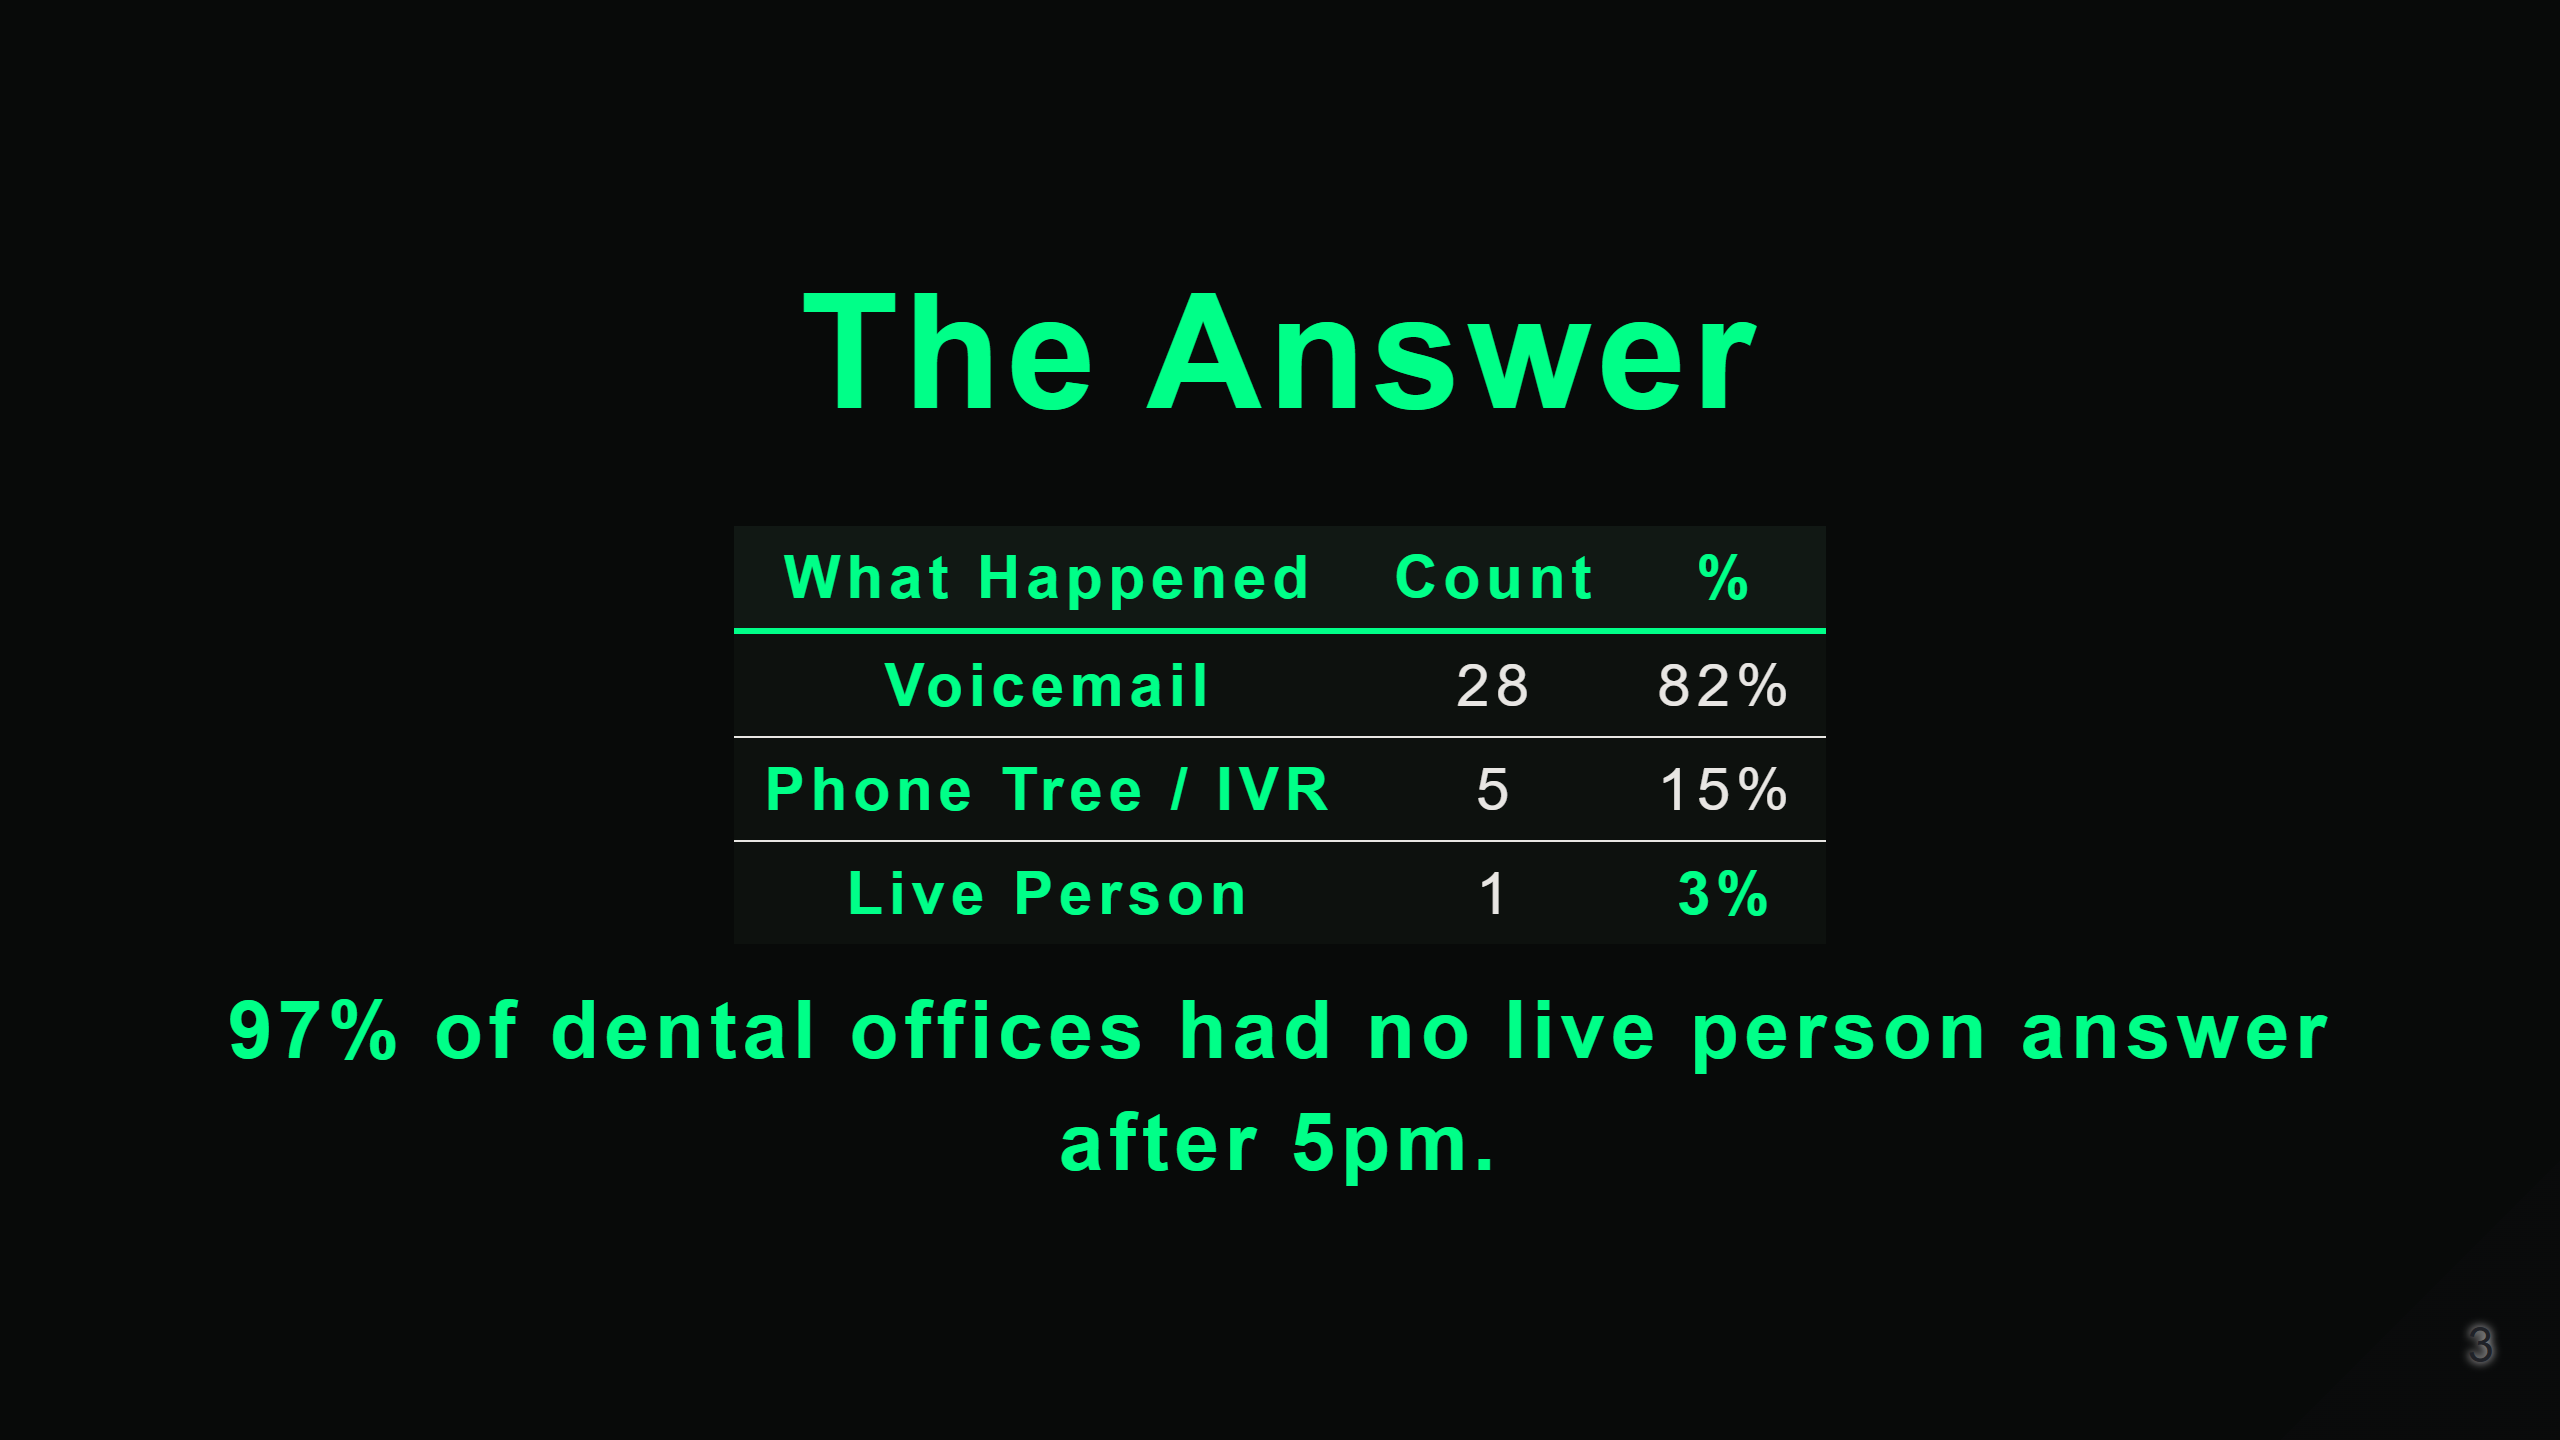
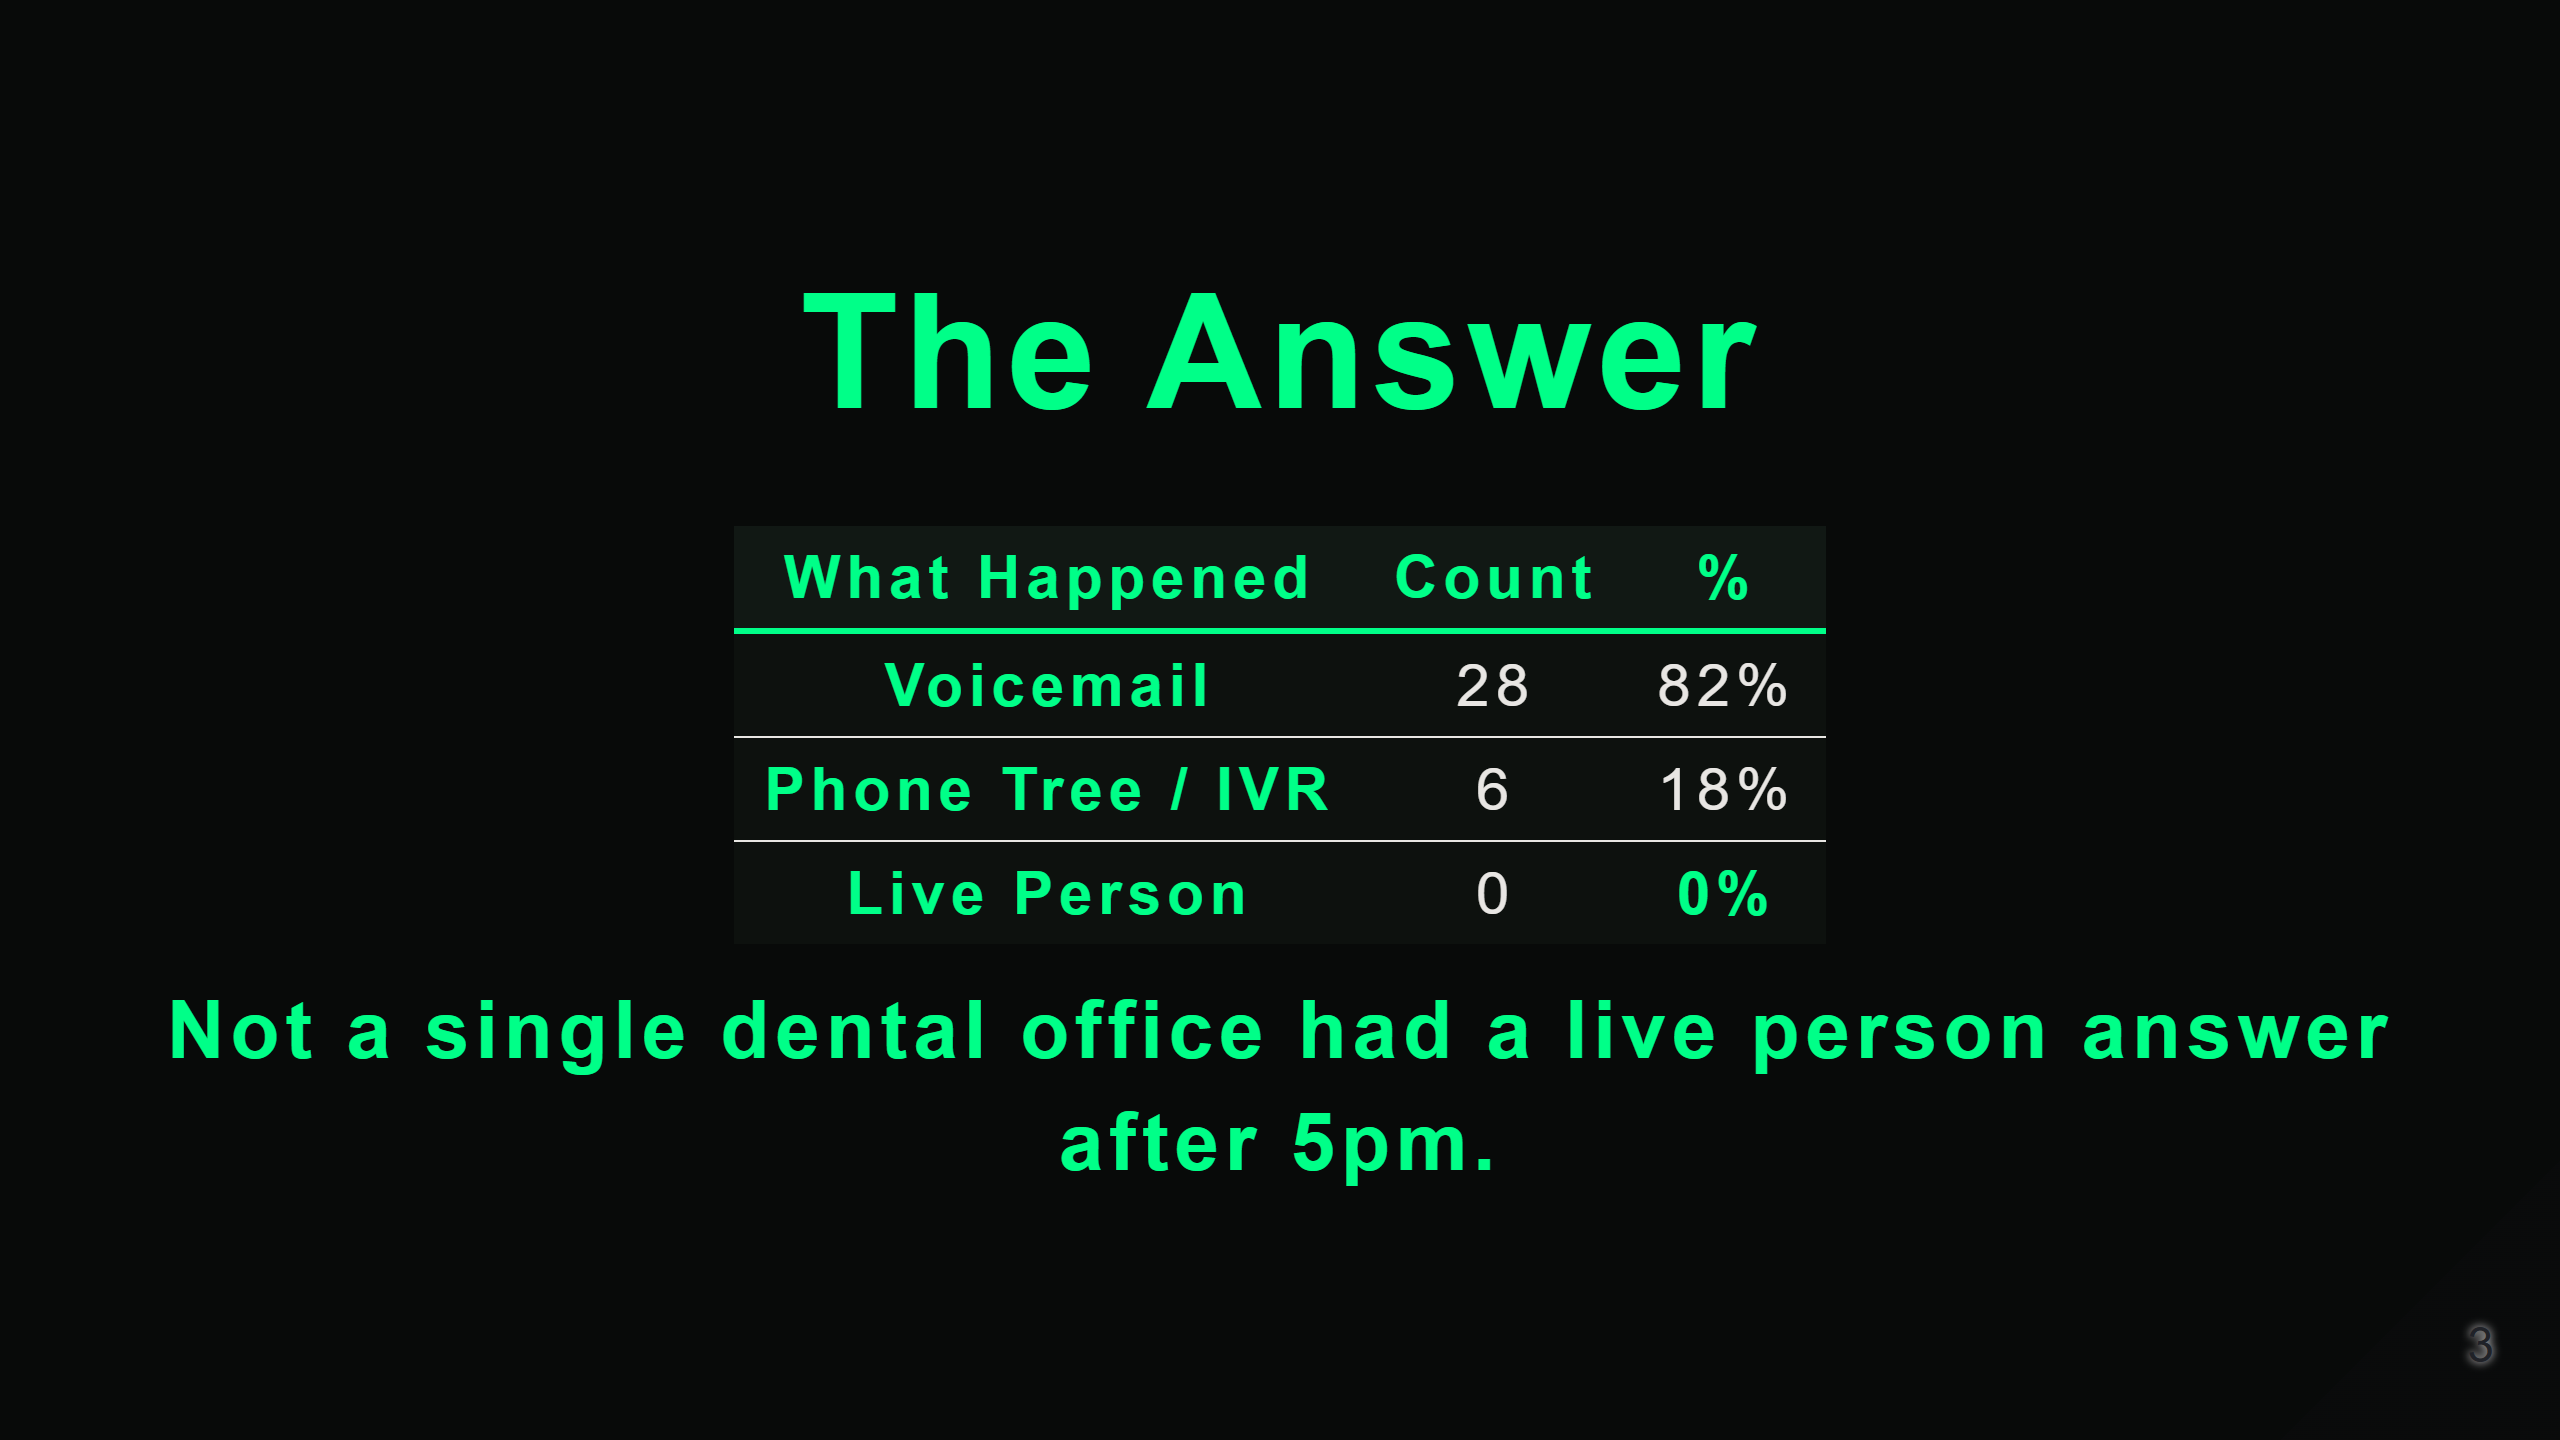
fix report data: zero live answers, not one — truth from actual call results

diff --git a/public/report.html b/public/report.html
@@ -3,22 +3,22 @@
 <head>
 <meta charset="UTF-8">
 <meta name="viewport" content="width=device-width, initial-scale=1.0">
-<title>We called 34 dental offices after 5pm. One person answered. | NightLeak</title>
-<meta name="description" content="97% of dental offices had no live person answer after hours. We called 34 practices across California and New York. Here's the data.">
+<title>We called 34 dental offices after 5pm. Nobody answered. | NightLeak</title>
+<meta name="description" content="Not a single dental office had a live person answer after hours. We called 34 practices across California and New York. Here's the data.">
 <link rel="canonical" href="https://nightleakaudit.com/report">
 
 <!-- Open Graph -->
 <meta property="og:type" content="article">
 <meta property="og:url" content="https://nightleakaudit.com/report">
-<meta property="og:title" content="We called 34 dental offices after 5pm. One person answered.">
-<meta property="og:description" content="97% of dental offices had no live person answer after hours. NightLeak After-Hours Audit Report — April 2026.">
+<meta property="og:title" content="We called 34 dental offices after 5pm. Nobody answered.">
+<meta property="og:description" content="Not a single dental office had a live person answer after hours. NightLeak After-Hours Audit Report — April 2026.">
 <meta property="og:image" content="https://nightleakaudit.com/og-image.png">
 <meta property="og:site_name" content="NightLeak">
 
 <!-- Twitter Card -->
 <meta name="twitter:card" content="summary_large_image">
-<meta name="twitter:title" content="We called 34 dental offices after 5pm. One person answered.">
-<meta name="twitter:description" content="97% had no live person. 0% offered online booking. $6.5M-$17.6M annual leak across 34 practices.">
+<meta name="twitter:title" content="We called 34 dental offices after 5pm. Nobody answered.">
+<meta name="twitter:description" content="Zero live answers. 0% offered online booking. $6.5M-$17.6M annual leak across 34 practices.">
 <meta name="twitter:image" content="https://nightleakaudit.com/og-image.png">
 
 <!-- JSON-LD -->
@@ -26,8 +26,8 @@
 {
   "@context": "https://schema.org",
   "@type": "Article",
-  "headline": "We called 34 dental offices after 5pm. One person answered.",
-  "description": "NightLeak After-Hours Audit Report — California & New York, April 2026. 97% of dental offices had no live person answer after hours.",
+  "headline": "We called 34 dental offices after 5pm. Nobody answered.",
+  "description": "NightLeak After-Hours Audit Report — California & New York, April 2026. Not a single dental office had a live person answer after hours.",
   "datePublished": "2026-04-17",
   "publisher": {
     "@type": "Organization",
@@ -608,17 +608,17 @@ body::after {
     <div class="report-eyebrow">Field Research · April 2026</div>
     <h1 class="report-headline">
       We called 34 dental offices after 5pm.<br>
-      <span>One person answered.</span>
+      <span>Nobody answered.</span>
     </h1>
     <p class="report-sub">
-      Between April 15-17, 2026, NightLeak called 34 dental practices across California and New York after business hours. We weren't selling anything. We called as a patient would.
+      Between April 15-17, 2026, NightLeak called 34 dental practices across California and New York after business hours. We weren't selling anything. We called as a patient would. Not a single practice had a live person pick up the phone.
     </p>
     <div class="report-meta">California & New York · 34 practices · April 15-17, 2026</div>
   </div>
 
   <!-- BIG NUMBER -->
   <div class="big-number-section">
-    <div class="big-number" id="big-pct">97%</div>
+    <div class="big-number" id="big-pct">100%</div>
     <div class="big-number-label">of dental offices had no live person answer after 5pm</div>
   </div>
 
@@ -629,11 +629,11 @@ body::after {
       <div class="stat-label">went to voicemail</div>
     </div>
     <div class="stat-item">
-      <div class="stat-num red">15%</div>
+      <div class="stat-num red">18%</div>
       <div class="stat-label">hit phone tree / IVR</div>
     </div>
     <div class="stat-item">
-      <div class="stat-num">3%</div>
+      <div class="stat-num red">0%</div>
       <div class="stat-label">answered by a live person</div>
     </div>
   </div>
@@ -651,8 +651,8 @@ body::after {
       <tbody>
         <tr><td>Practices called</td><td class="num">34</td></tr>
         <tr><td>Went to voicemail</td><td class="num">28 (82%)</td></tr>
-        <tr><td>Hit a phone tree / IVR</td><td class="num">5 (15%)</td></tr>
-        <tr><td>Answered by a live person</td><td class="num">1 (3%)</td></tr>
+        <tr><td>Hit a phone tree / IVR</td><td class="num">6 (18%)</td></tr>
+        <tr><td>Answered by a live person</td><td class="num" style="color:var(--red);">0 (0%)</td></tr>
         <tr><td>Offered online booking</td><td class="num" style="color:var(--red);">0 (0%)</td></tr>
         <tr><td>Offered a callback option</td><td class="num">6 (18%)</td></tr>
       </tbody>
@@ -669,13 +669,13 @@ body::after {
     </div>
     <div class="bar-row">
       <div class="bar-label">Phone Tree / IVR</div>
-      <div class="bar-track"><div class="bar-fill amber" style="width:15%"></div></div>
-      <div class="bar-pct">15%</div>
+      <div class="bar-track"><div class="bar-fill amber" style="width:18%"></div></div>
+      <div class="bar-pct">18%</div>
     </div>
     <div class="bar-row">
       <div class="bar-label">Live Person</div>
-      <div class="bar-track"><div class="bar-fill green" style="width:3%"></div></div>
-      <div class="bar-pct">3%</div>
+      <div class="bar-track"><div class="bar-fill red" style="width:0%"></div></div>
+      <div class="bar-pct">0%</div>
     </div>
     <div class="bar-row">
       <div class="bar-label">Online Booking</div>
@@ -770,7 +770,7 @@ body::after {
       <tbody>
         <tr><td>New York, NY</td><td>5</td><td><span class="dot red"></span>4 (80%)</td><td>0</td><td>1</td></tr>
         <tr><td>San Jose, CA</td><td>4</td><td><span class="dot red"></span>3 (75%)</td><td>0</td><td>1</td></tr>
-        <tr><td>Los Angeles, CA</td><td>1</td><td>0</td><td><span class="dot green"></span>1</td><td>0</td></tr>
+        <tr><td>Los Angeles, CA</td><td>1</td><td><span class="dot red"></span>0</td><td>0</td><td><span class="dot amber"></span>1</td></tr>
         <tr><td>Roseville, CA</td><td>1</td><td><span class="dot red"></span>1 (100%)</td><td>0</td><td>0</td></tr>
         <tr><td>Sacramento, CA</td><td>1</td><td><span class="dot red"></span>1 (100%)</td><td>0</td><td>0</td></tr>
         <tr><td>San Francisco, CA</td><td>1</td><td><span class="dot red"></span>1 (100%)</td><td>0</td><td>0</td></tr>
@@ -778,7 +778,7 @@ body::after {
       </tbody>
     </table>
     <p style="font-size:12px;color:var(--text3);margin-top:12px;font-family:'Syne Mono',monospace;letter-spacing:0.05em;">
-      The one live answer was in Los Angeles. Every other city went dark after 5pm.
+      Not a single city had a live person answer the phone after 5pm.
     </p>
   </div>
 
@@ -806,8 +806,8 @@ body::after {
 
     <div class="finding critical">
       <div class="finding-num">FINDING 04</div>
-      <div class="finding-title">Major metros went completely dark</div>
-      <div class="finding-desc">San Jose, NYC, San Francisco, Sacramento. Every practice in these cities went to voicemail or IVR after 5pm. The one live answer was in Los Angeles.</div>
+      <div class="finding-title">Every metro went completely dark</div>
+      <div class="finding-desc">San Jose, NYC, Los Angeles, San Francisco, Sacramento. Every single practice in every city went to voicemail or IVR after 5pm. Zero live answers.</div>
     </div>
   </div>
 

diff --git a/docs/NIGHTLEAK-AFTER-HOURS-REPORT-V1.md b/docs/NIGHTLEAK-AFTER-HOURS-REPORT-V1.md
@@ -5,7 +5,7 @@
 
 ### We called 34 dental practices after 5pm. Here's what happened.
 
-**97% of dental offices we called after hours had no live person answer the phone.**
+**Not a single dental office we called after hours had a live person answer the phone.**
 
 Between April 15-17, 2026, NightLeak called 34 dental practices across California and New York after business hours. We weren't selling anything. We called as a patient would — looking for help.
 
@@ -17,12 +17,12 @@ Between April 15-17, 2026, NightLeak called 34 dental practices across Californi
 |--------|--------|
 | Practices called | 34 |
 | Went to voicemail | 28 (82%) |
-| Hit a phone tree / IVR | 5 (15%) |
-| Answered by a live person | 1 (3%) |
+| Hit a phone tree / IVR | 6 (18%) |
+| Answered by a live person | 0 (0%) |
 | Offered online booking | 0 (0%) |
 | Offered a callback option | 6 (18%) |
 
-**Only 1 out of 34 practices had a human answer the phone after 5pm.**
+**Zero out of 34 practices had a human answer the phone after 5pm.**
 
 ---
 
@@ -62,7 +62,7 @@ Most voicemails gave no useful next step. No website. No booking link. No callba
 |------|--------|-----------|------|-----|
 | New York, NY | 5 | 4 (80%) | 0 | 1 |
 | San Jose, CA | 4 | 3 (75%) | 0 | 1 |
-| Los Angeles, CA | 1 | 0 | 1 | 0 |
+| Los Angeles, CA | 1 | 0 | 0 | 1 |
 | Roseville, CA | 1 | 1 (100%) | 0 | 0 |
 | Sacramento, CA | 1 | 1 (100%) | 0 | 0 |
 | San Francisco, CA | 1 | 1 (100%) | 0 | 0 |
@@ -75,7 +75,7 @@ Most voicemails gave no useful next step. No website. No booking link. No callba
 1. **No practice offered online booking during their after-hours message.** Not one.
 2. **Only 18% mentioned a callback option.** The rest said "leave a message" and nothing else.
 3. **82% of calls hit a dead-end voicemail.** No routing, no alternative, no way for the patient to self-serve.
-4. **The one practice that answered live was in Los Angeles.** Every other practice — including major metro areas like San Jose, NYC, San Francisco, and Sacramento — went dark after 5pm.
+4. **Every metro went dark.** Los Angeles, San Jose, NYC, San Francisco, Sacramento — not a single practice in any city had a live person answer after 5pm.
 
 ---
 

diff --git a/docs/nightleak-after-hours-report.md b/docs/nightleak-after-hours-report.md
@@ -49,7 +49,7 @@ style: |
 
 # We called 34 dental offices after 5pm.
 
-**One person answered.**
+**Nobody answered.**
 
 *NightLeak After-Hours Audit Report | April 2026*
 
@@ -70,10 +70,10 @@ No sales pitch. No agenda. Just: **"Is anyone there?"**
 | What Happened | Count | % |
 |--------------|-------|---|
 | **Voicemail** | 28 | 82% |
-| **Phone Tree / IVR** | 5 | 15% |
-| **Live Person** | 1 | **3%** |
+| **Phone Tree / IVR** | 6 | 18% |
+| **Live Person** | 0 | **0%** |
 
-**97% of dental offices had no live person answer after 5pm.**
+**Not a single dental office had a live person answer after 5pm.**
 
 ---
 
@@ -81,7 +81,7 @@ No sales pitch. No agenda. Just: **"Is anyone there?"**
 
 | Feature | Offered? |
 |---------|----------|
-| Live person | 1 out of 34 |
+| Live person | **0 out of 34** |
 | Online booking | **0 out of 34** |
 | Callback option | 6 out of 34 |
 | Text option | 0 out of 34 |
@@ -136,12 +136,13 @@ Most voicemails gave no useful next step.
 |------|--------|-----------|------|
 | New York, NY | 5 | 4 (80%) | 0 |
 | San Jose, CA | 4 | 3 (75%) | 0 |
+| Los Angeles, CA | 1 | 0 | 0 |
 | Sacramento, CA | 1 | 1 | 0 |
 | San Francisco, CA | 1 | 1 | 0 |
 | Roseville, CA | 1 | 1 | 0 |
-| 22 other CA cities | 22 | 18 (82%) | 1 |
+| 21 other CA cities | 21 | 18 (86%) | 0 |
 
-**The one live answer was in Los Angeles.**
+**Zero live answers across every city.**
 
 ---
 
